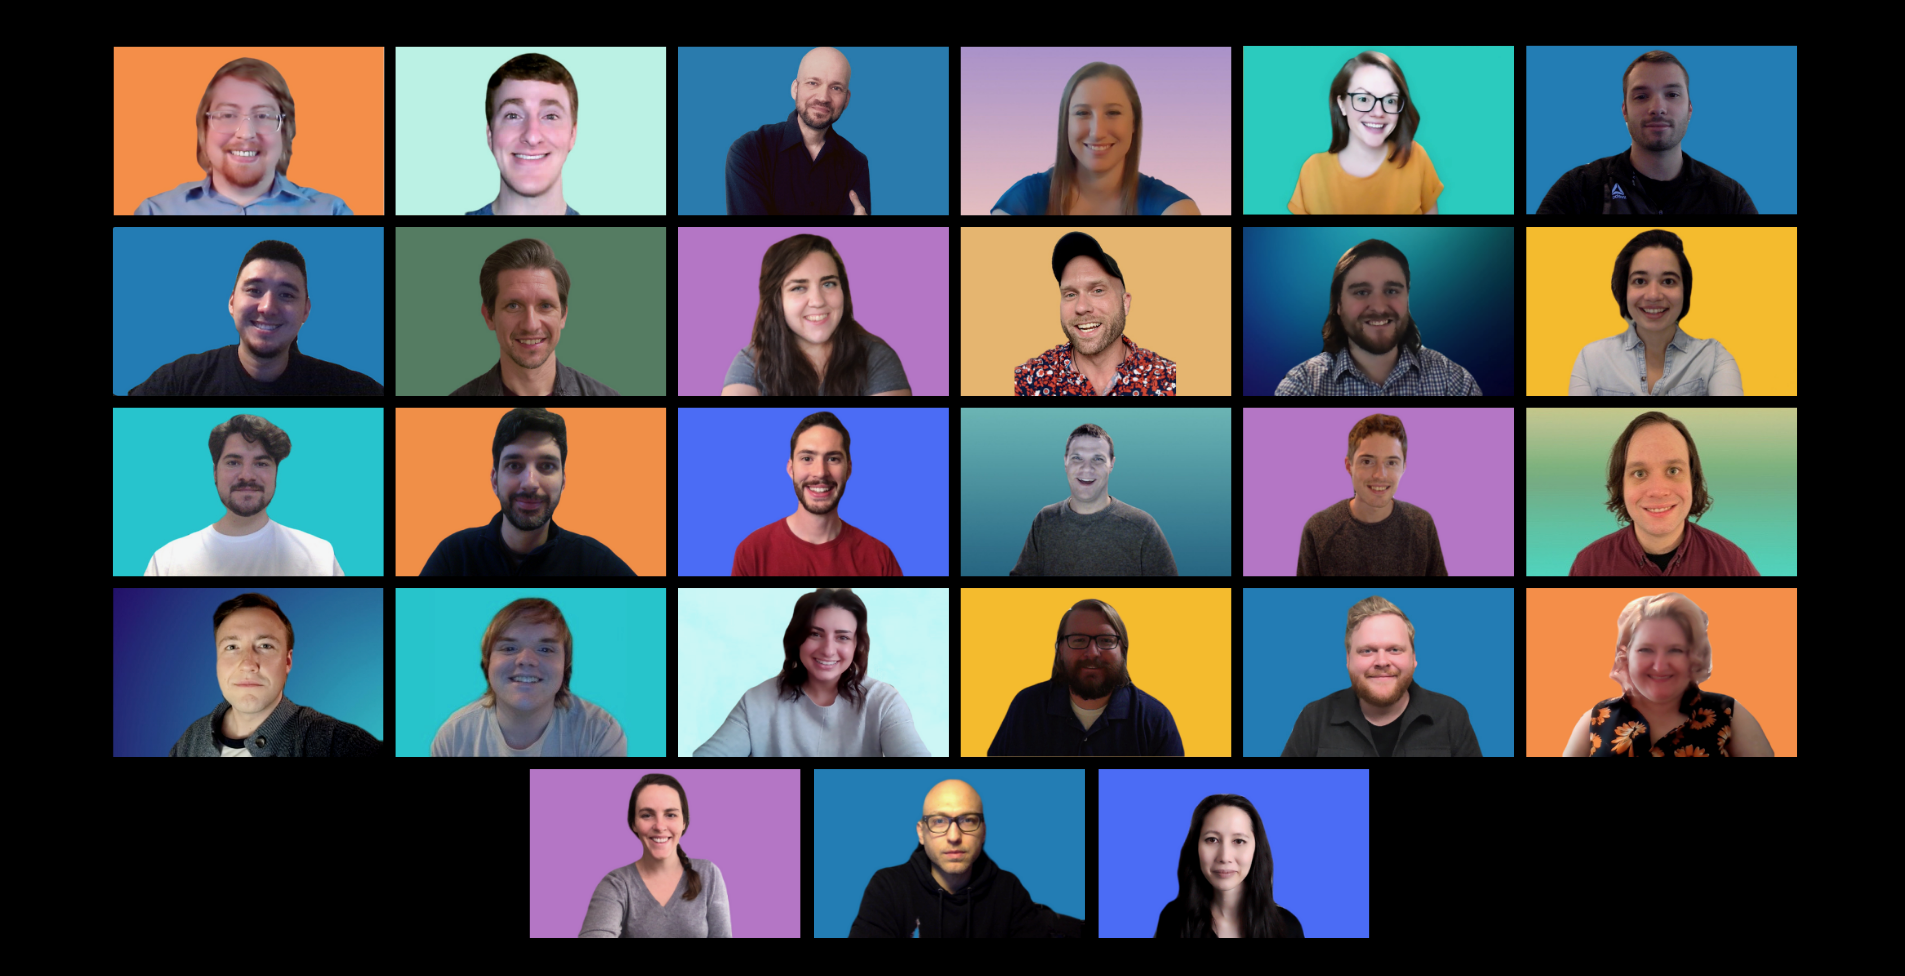
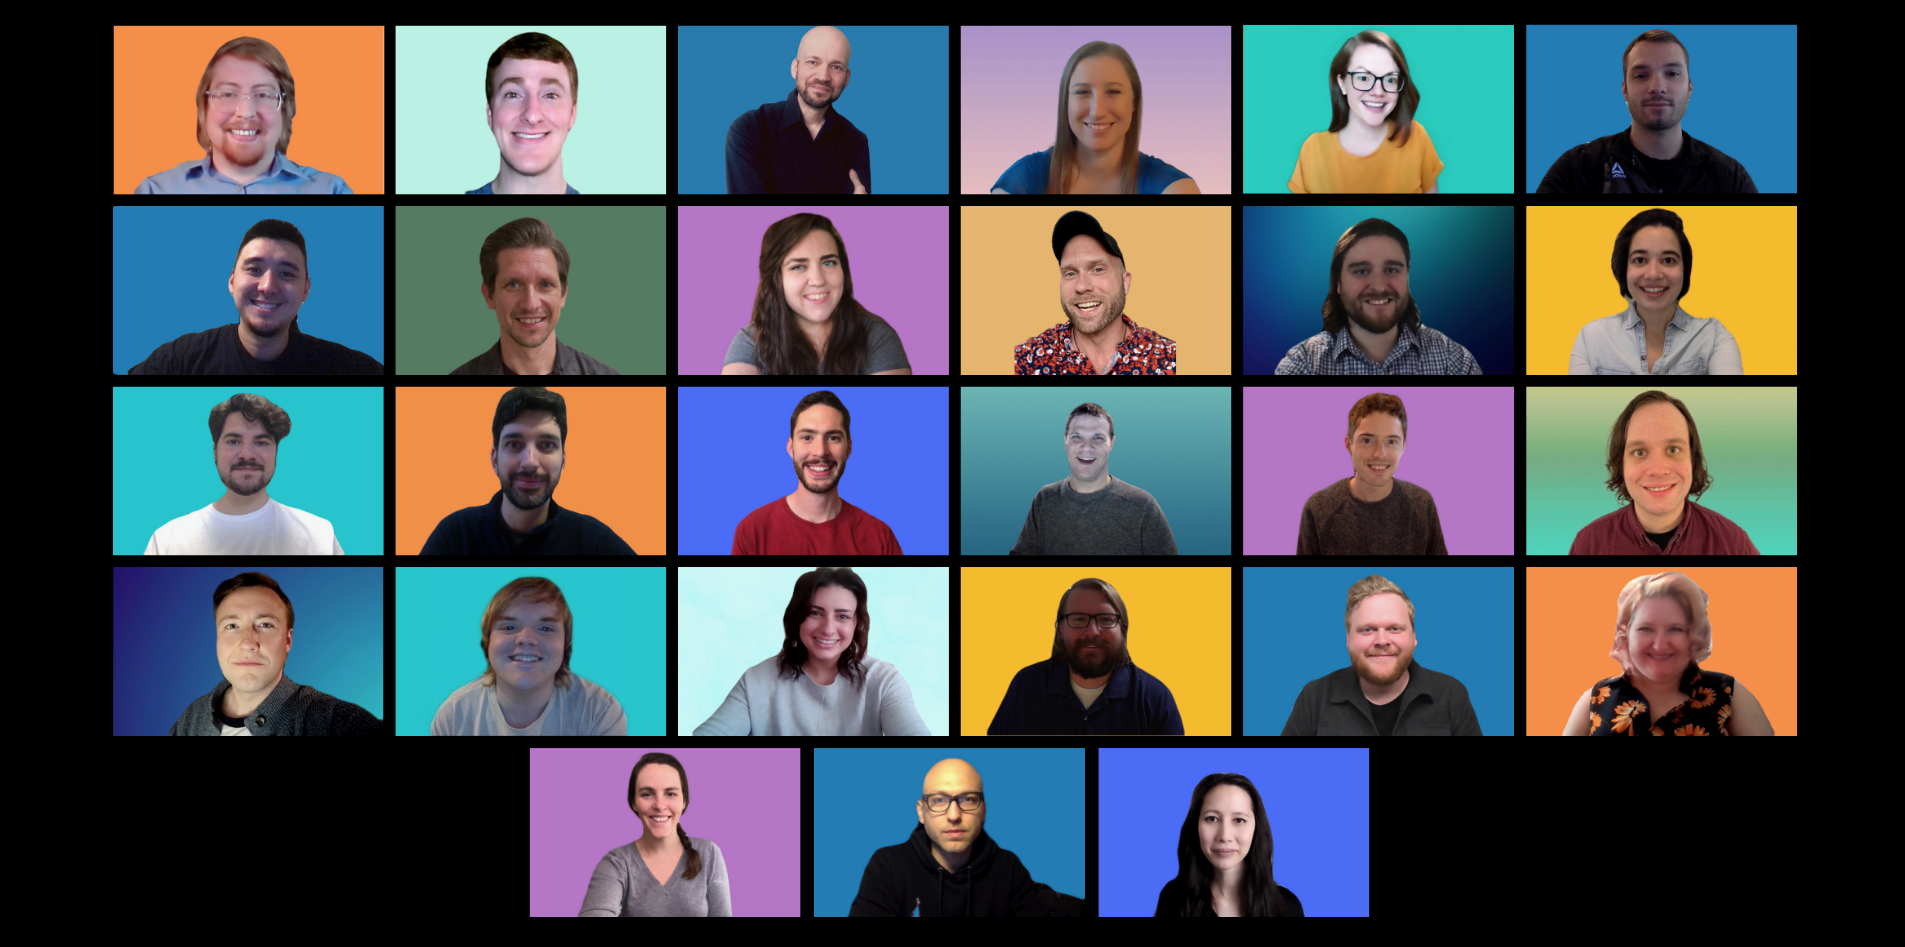
fixed added "https://" to EmilyH linked in. Removed console log from main.js and removed unnecessary divs surrounding group photo in index.html

diff --git a/index.html b/index.html
@@ -21,19 +21,19 @@
                 <img src="images/nsslogo.png" class="d-inline-block align-top logo" alt="Cohort 42 Logo">
             </a><h2 id="cohort42">Cohort 42</h2>
             <a
-                id="hoverButton"
-                class="nav-link btn--rsvp"
-                href="https://www.eventbrite.com/e/nss-virtual-demo-day-web-development-cohorts-42-e11-tickets-131410537455"
-                target="_blank"
-                onmouseenter="ShowDate()"
-                onmouseleave="DemoDay()">
-                    <span class="btn-left">
-                        RSVP
-                    </span>
-                    <div class="btn-spacer"></div>
-                    <span id="btnRight" class="btn-right">
-                        Demo Day
-                    </span>
+            id="hoverButton"
+            class="nav-link btn--rsvp"
+            href="https://www.eventbrite.com/e/nss-virtual-demo-day-web-development-cohorts-42-e11-tickets-131410537455"
+            target="_blank"
+            onmouseenter="ShowDate()"
+            onmouseleave="DemoDay()">
+                <span class="btn-left">
+                    RSVP
+                </span>
+                <div class="btn-spacer"></div>
+                <span id="btnRight" class="btn-right">
+                    Demo Day
+                </span>
             </a>
 
             <button class="navbar-toggler" type="button" data-toggle="collapse" data-target="#navbarNav" aria-controls="navbarNav"
@@ -60,13 +60,7 @@
 
     <div class="jumbotron jumbotron-fluid">
         <div id="carouselExampleIndicators" class="carousel slide">
-            <ol class="carousel-indicators">
-            </ol>
-            <div class="carousel-inner">
-                <div class="carousel-item active">
-                    <img class="d-block w-100" src="images/CohortGroupPhotos/C42GroupPhoto.png" alt="Group Photo">
-                </div>
-            </div>
+            <img class="d-block w-100" src="images/CohortGroupPhotos/C42GroupPhoto.png" alt="Group Photo">
         </div>
 
         <a id="thedevelopers"></a>

diff --git a/scripts/main.js b/scripts/main.js
@@ -37,7 +37,6 @@ const shuffle = (arr) => {
 function cohortMembers(list) {
   let data = list.cohort;
   data = shuffle(data)
-  console.log(data, "DATA")
   data.forEach(function (item) {
     let studentContact = `<div class="studentContact">`
     //if student doesn't have a portfolio site then don't display the icon
